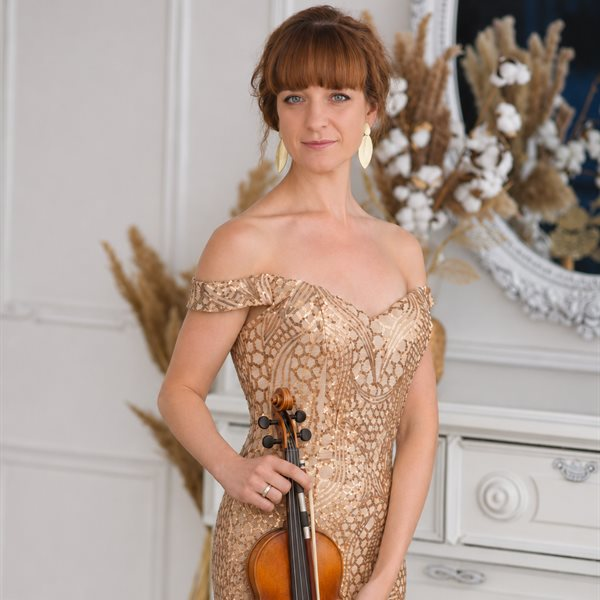
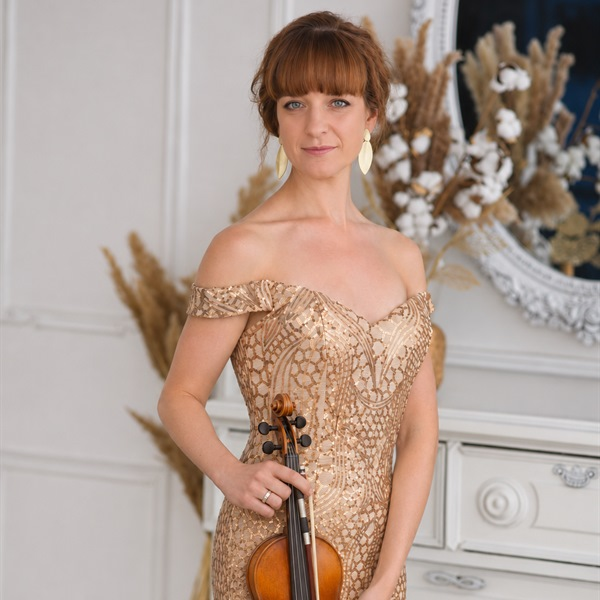
Nataliya portrait: 600px + 1024px 2x, quality 94/96, no visible loss

diff --git a/index.html b/index.html
@@ -111,7 +111,7 @@
 
       <div class="bio-grid">
         <article class="bio-card">
-          <img class="bio-photo" src="images/portrait-1.jpg" alt="Nataliya Salavei mit Violine" width="600" height="600" loading="lazy">
+          <img class="bio-photo" src="images/portrait-1.jpg" srcset="images/portrait-1.jpg 1x, images/portrait-1@2x.jpg 2x" alt="Nataliya Salavei mit Violine" width="600" height="600" loading="lazy">
           <h3 class="bio-name">Nataliya Salavei</h3>
           <p class="bio-role" data-de="Violine · Bielefelder Philharmoniker" data-en="Violin · Bielefeld Philharmonic" data-ru="Скрипка · Билефельдский филармонический оркестр">Violine · Bielefelder Philharmoniker</p>
           <div class="bio-text">
